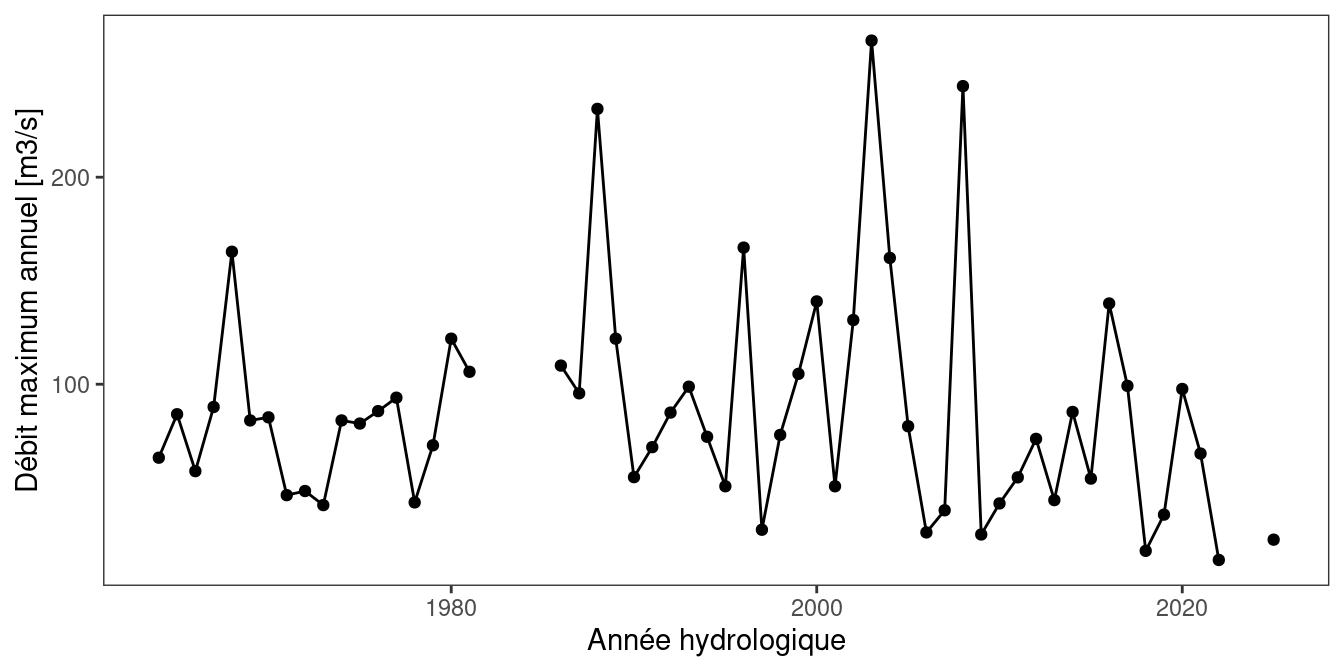
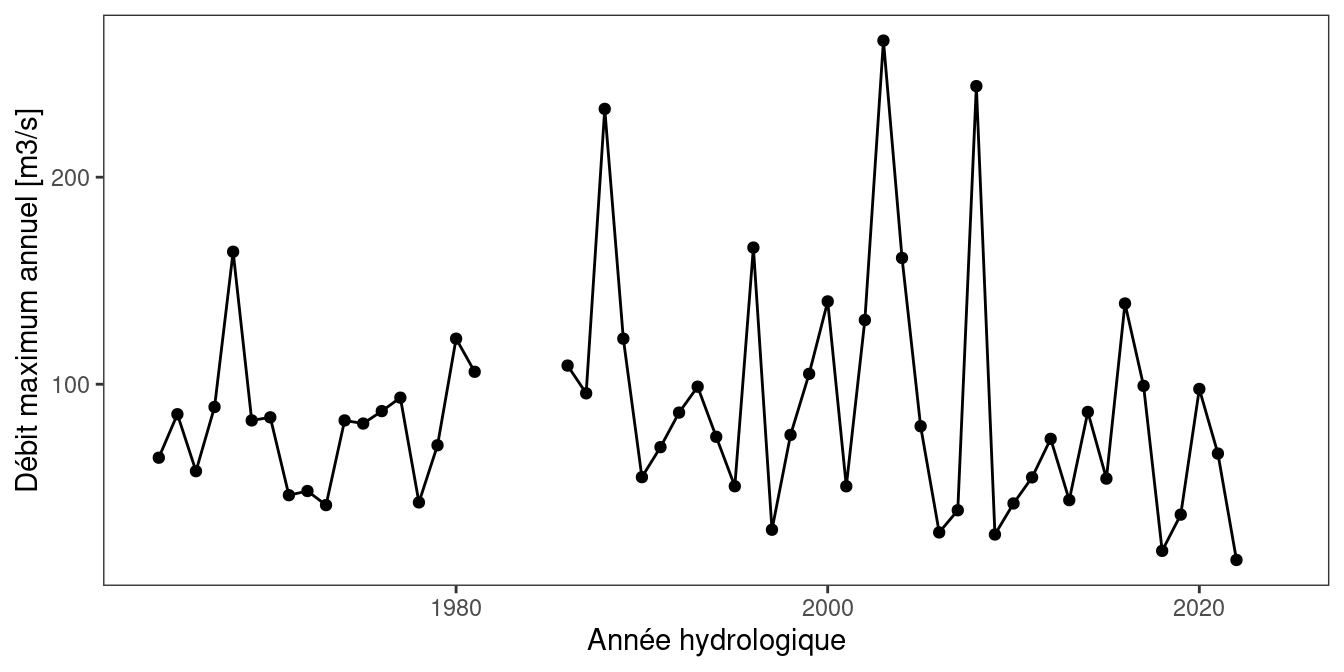
Fixed the handling of NAs in MAXAN series

diff --git a/docs/données-et-statistiques-descriptives.html b/docs/données-et-statistiques-descriptives.html
@@ -365,8 +365,8 @@ Figure 1.9: Nombre de crues se produisant chaque année hydrologique sur l’Aze
 </p>
 </div>
 <p>En plus du tracé chronologique des données, deux représentations sont importantes pour les données quantitatives car elles peuvent être reliées `auxà des notions probabilistes dont nous parlerons prochainement : l’<strong>histogramme</strong> et la <strong>courbe des fréquences cumulées</strong>.</p>
-<p>L’histogramme consiste à représenter la <strong>fréquence</strong> (ou parfois l’<strong>effectif</strong>) de chaque valeur que l’échantillon peut prendre. L’effectif d’une valeur donnée est le nombre de fois où cette valeur a été observée, la fréquence est égale à l’effectif divisé par la taille de la série analysée. Par exemple, pour les données de la Figure <a href="données-et-statistiques-descriptives.html#fig:Ncrues">1.9</a>, la valeur « 0 » est d’effectif 15 et de fréquence 15/60=0.25.
-Il est également possible de cumuler ces fréquences par ordre croissant des valeurs possibles : par exemple fréquence(0)=0.25, fréquence(1)=0.25, et donc fréquence cumulée(1) = 0.25 + 0.25=0.5. La Table <a href="données-et-statistiques-descriptives.html#tab:NcruesTable">1.1</a> montre le calcul de ces quantités pour toutes les données de la Figure <a href="données-et-statistiques-descriptives.html#fig:Ncrues">1.9</a>.</p>
+<p>L’histogramme consiste à représenter la <strong>fréquence</strong> (ou parfois l’<strong>effectif</strong>) de chaque valeur que l’échantillon peut prendre. L’effectif d’une valeur donnée est le nombre de fois où cette valeur a été observée, la fréquence est égale à l’effectif divisé par la taille de la série analysée. Par exemple, pour les données de la Figure <a href="données-et-statistiques-descriptives.html#fig:Ncrues">1.9</a>, la valeur « 0 » est d’effectif 13 et de fréquence 13/56 <span class="math inline">\(\approx\)</span> 0.23.
+Il est également possible de cumuler ces fréquences par ordre croissant des valeurs possibles : par exemple fréquence(0) <span class="math inline">\(\approx\)</span> 0.23, fréquence(1) <span class="math inline">\(\approx\)</span> 0.27, et donc fréquence cumulée(1) <span class="math inline">\(\approx\)</span> 0.23 + 0.27=0.5. La Table <a href="données-et-statistiques-descriptives.html#tab:NcruesTable">1.1</a> montre le calcul de ces quantités pour toutes les données de la Figure <a href="données-et-statistiques-descriptives.html#fig:Ncrues">1.9</a>.</p>
 <p>La notion de fréquence cumulée est extrêmement importante puisque nous verrons ultérieurement que les notions de quantiles et de période de retour y sont étroitement liées. En hydrologie, la fréquence cumulée est souvent appelée <strong>fréquence au non-dépassement</strong> : en effet, la fréquence cumulée d’une valeur est égale au pourcentage de données dans l’échantillon qui sont inférieures ou égales à cette valeur. Notons qu’il peut sembler arbitraire d’utiliser « inférieur ou égal » plutôt qu’ « inférieur strict » dans la définition de la fréquence cumulée : nous reviendrons sur ce point ultérieurement.</p>
 <table>
 <caption><span id="tab:NcruesTable">Table 1.1: </span>Effectifs, fréquences et fréquences cumulées.</caption>
@@ -381,50 +381,50 @@ Il est également possible de cumuler ces fréquences par ordre croissant des va
 <tbody>
 <tr class="odd">
 <td align="right">0</td>
-<td align="right">15</td>
-<td align="right">0.2500000</td>
-<td align="right">0.2500000</td>
+<td align="right">13</td>
+<td align="right">0.2321429</td>
+<td align="right">0.2321429</td>
 </tr>
 <tr class="even">
 <td align="right">1</td>
 <td align="right">15</td>
-<td align="right">0.2500000</td>
+<td align="right">0.2678571</td>
 <td align="right">0.5000000</td>
 </tr>
 <tr class="odd">
 <td align="right">2</td>
-<td align="right">16</td>
-<td align="right">0.2666667</td>
-<td align="right">0.7666667</td>
+<td align="right">15</td>
+<td align="right">0.2678571</td>
+<td align="right">0.7678571</td>
 </tr>
 <tr class="even">
 <td align="right">3</td>
 <td align="right">5</td>
-<td align="right">0.0833333</td>
-<td align="right">0.8500000</td>
+<td align="right">0.0892857</td>
+<td align="right">0.8571429</td>
 </tr>
 <tr class="odd">
 <td align="right">4</td>
 <td align="right">3</td>
-<td align="right">0.0500000</td>
-<td align="right">0.9000000</td>
+<td align="right">0.0535714</td>
+<td align="right">0.9107143</td>
 </tr>
 <tr class="even">
 <td align="right">5</td>
-<td align="right">3</td>
-<td align="right">0.0500000</td>
-<td align="right">0.9500000</td>
+<td align="right">2</td>
+<td align="right">0.0357143</td>
+<td align="right">0.9464286</td>
 </tr>
 <tr class="odd">
 <td align="right">6</td>
 <td align="right">1</td>
-<td align="right">0.0166667</td>
-<td align="right">0.9666667</td>
+<td align="right">0.0178571</td>
+<td align="right">0.9642857</td>
 </tr>
 <tr class="even">
 <td align="right">7</td>
 <td align="right">2</td>
-<td align="right">0.0333333</td>
+<td align="right">0.0357143</td>
 <td align="right">1.0000000</td>
 </tr>
 <tr class="odd">
@@ -444,8 +444,8 @@ Figure 1.10: Histogramme des fréquences et courbe des fréquences cumulées.
 </div>
 <p>Ces premiers calculs et graphiques élémentaires permettent d’apporter des éléments de réponse à des questions qui sont régulièrement posées à l’hydrologue, par exemple :</p>
 <ul>
-<li>« <em>Quelle est la probabilité de ne pas observer de crue au cours de l’année</em> ? » : la fréquence observée de la valeur 0 valant 0.25, on serait tenté de répondre que cette probabilité vaut 0.25.</li>
-<li>« <em>Quel nombre annuel de crue a une probabilité 1/10 d’être dépassé</em> ? » : on peut répondre à cette question en recherchant la valeur dont la fréquence au dépassement vaut 0.1, ou de manière équivalente dont la fréquence au non-dépassement vaut 1-0.1 = 0.9. En observant la Table <a href="données-et-statistiques-descriptives.html#tab:NcruesTable">1.1</a>, on constate que la fréquence cumulée 0.9 est atteinte pour une valeur de 4 crues par an.</li>
+<li>« <em>Quelle est la probabilité de ne pas observer de crue au cours de l’année</em> ? » : la fréquence observée de la valeur 0 valant 0.23, on serait tenté de répondre que cette probabilité vaut 0.23.</li>
+<li>« <em>Quel nombre annuel de crue a une probabilité 1/10 d’être dépassé</em> ? » : on peut répondre à cette question en recherchant la valeur dont la fréquence au dépassement vaut 0.1, ou de manière équivalente dont la fréquence au non-dépassement vaut 1-0.1 = 0.9. En observant la Table <a href="données-et-statistiques-descriptives.html#tab:NcruesTable">1.1</a>, on constate que la fréquence cumulée 0.9 est atteinte entre les valeurs de 3 et 4 crues par an.</li>
 <li>« <em>Quelle est la probabilité d’observer 8 crues ou plus au cours d’une même année</em> ? » : Au cours des 60 années d’observation, on n’a jamais observé plus de 7 crues. On serait donc tenté de répondre que la probabilité d’en observer 8 ou plus est nulle. Néanmoins, on peut légitimement douter de cette estimation : un événement qui n’a jamais été observé est-il pour autant de probabilité nulle, c’est à dire impossible ?</li>
 </ul>
 <p>Le dernier point soulevé ci-dessus illustre une distinction importante. La question posée est en effet exprimée en termes de <em>probabilité</em>. Or, la réponse est donnée en termes de <em>fréquence</em>. Il se trouve que <strong>les deux notions ne sont pas identiques</strong>, ce qui explique la gêne exprimée dans le dernier point. Un événement peut très bien n’avoir jamais été observé (fréquence nulle), mais être de probabilité non-nulle ! La notion de fréquence se rapporte au monde des observations (qui sont en nombre limité), tandis que la notion de probabilité se rapporte à un monde plus théorique, gouverné par la théorie des probabilités, et que nous aborderons au chapitre suivant.</p>
